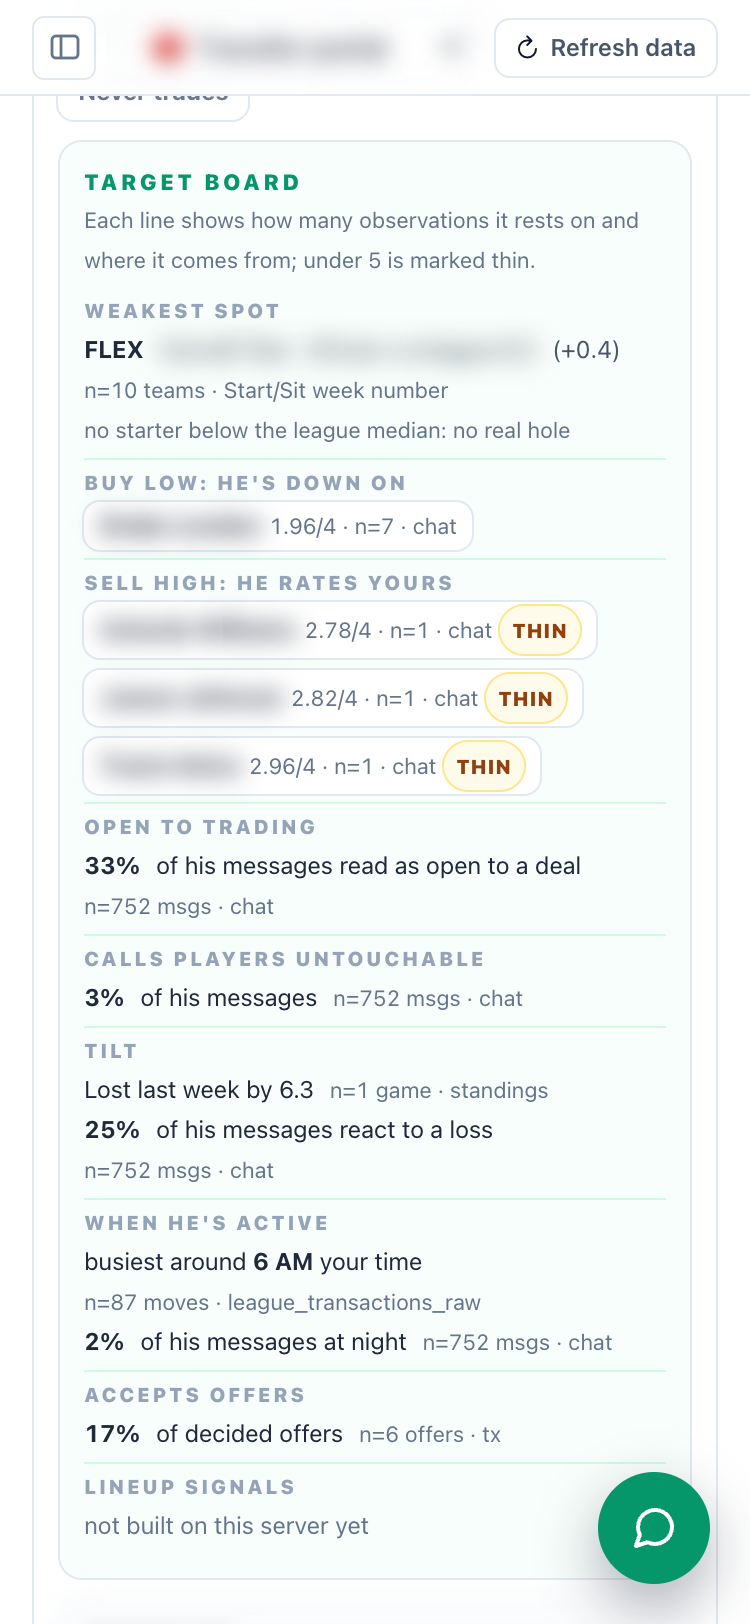
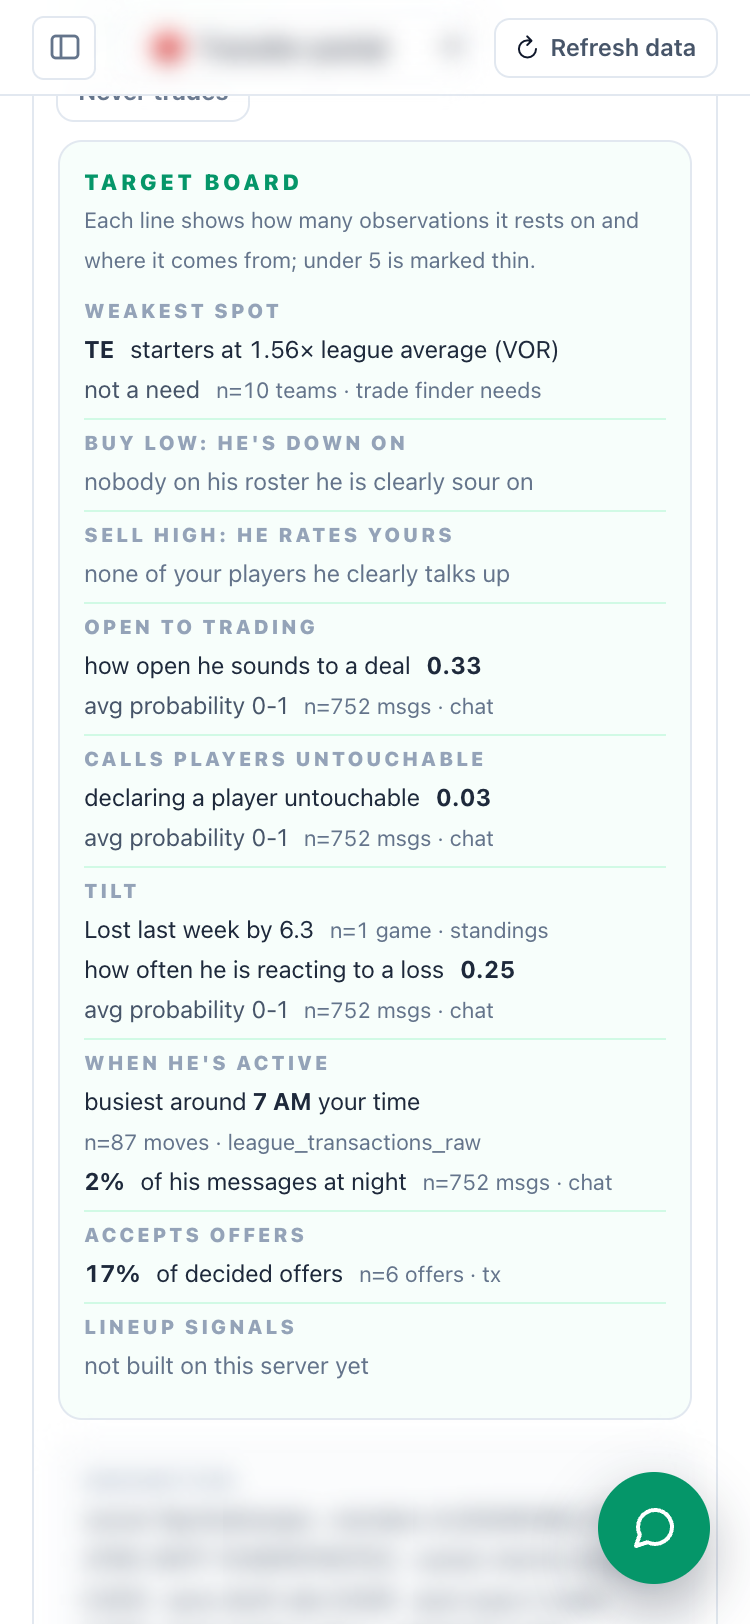
docs: TM-03 round 2 evidence, canonical producers, re-taken 375px screenshots

diff --git a/docs/tdd/2026-09-23-tm-03-target-board.tdd.md b/docs/tdd/2026-09-23-tm-03-target-board.tdd.md
@@ -11,11 +11,11 @@ What already exists for this surface, on `3ac59fea`:
 | Need | Existing producer (table + writer, file:line) | Already served where | Decision |
 |---|---|---|---|
 | Openness, untouchables, loss reaction, night share | `manager_signals` rows `chat_open_to_trade`, `chat_own_untouchable`, `chat_reacting_to_loss`, `chat_night_share` (n = messages), written by `buildManagerSignals` server/services/manager-signals.js:363 via `chatSignals` :149, from league_chat.sqlite `manager_chat_profile` opened by `openChatDb` :111 | `/managers/signals` as a flat signal list (server/routes/trades.js:531) | REUSE the stored rows; shape them per manager |
-| Players he is down on / rates | `manager_player_view` (league, roster, player, sentiment 0-4, n), written by `buildManagerSignals` manager-signals.js:429 from league_chat.sqlite `manager_player_sentiment` through the trusted identity join | read by talk-vs-model.js:187, counterparty-pricing.js:1100, bluff-detector.js:289; not on any page per manager | REUSE; join to rosters with `rosterOwnership` talk-vs-model.js:160 |
+| Players he is down on / rates | `talkReads` server/services/talk-vs-model.js:182 (`readTalk` :77, PRAISE 2.3, SOUR 1.75, 3-mention floor, usage gap from `nfl_ffopportunity_weekly`) over `manager_player_view` (writer `buildManagerSignals` manager-signals.js:429) | the trade finder, counterparty-pricing.js:258 | REUSE the verdicts (round 2; round 1 wrongly re-thresholded the table at 2.0) |
 | Recent loss | `manager_signals` `last_week_margin` (n=1), `standing_streak`, manager-signals.js:243 `standingsSignals` | flat list only | REUSE |
 | Observed accept rate | `manager_signals` `tx_accept_rate` (withheld under 5 decided), manager-signals.js:225 `txSignals` | `/managers/signals` receptiveness block | REUSE, same row |
 | Active hours from behaviour | `timingRead` server/services/trade-tactics.js:249 (league_transactions_raw, min 10 own actions) | trade tactics only | REUSE, call it |
-| Roster hole | none per manager. Canonical week number: `lineupDiff` trade-engine.js:2814 (bestLineup on Start/Sit `week_points`) | League Hub card, Nick's team only | EXTEND: call `lineupDiff` for every roster, compare slot by slot |
+| Roster hole | `analyzeLeague` server/routes/tradelab.js:98 (VOR starter value / league average, need under 0.80), the one needs source of the trade finder (trade-engine.js:155 `rosterContext`, counterparty-pricing.js:456) | the finder's "he is short at X" reason | REUSE its `needs` (round 2; round 1 built a second hole from `lineupDiff` week points and disagreed on 2 rosters) |
 | LS-01 lineup signals | not on main (`grep -rn "LS-01\|lineup_signal" server client/src` on 3ac59fea: 0 hits). Planned table `lineup_signal(s)` (league, roster, player, week, signal, evidence, n) per EXECUTION-WIRING.md | none | CONSUME BEHIND FIELD DETECTION: read only when the table and its columns exist, otherwise `table_absent` |
 
 Why the stored copy and not a second chat read: `manager_player_view` and the `chat_*` rows ARE the chat DB's
@@ -48,6 +48,16 @@ Neighbours on 74e8b373, same command: test/league-brain.test.js 5/5, test/trade-
 test/manager-signals-api.test.js 27/27. `npx tsc --noEmit` exit 0; `node scripts/lint.mjs` exit 0;
 `node scripts/wiring-map.mjs --check` exit 0 (74e8b373 working tree). The full `npm run check` is left to the Gate phase.
 
+### Round 2 (skeptic findings, head eb16c357)
+
+- RED `5cd25dcd` test: RED board reads use talkReads + analyzeLeague, THIN boundary, route isolation. Against
+  eb16c357's service (tests from 5cd25dcd, service file stashed back to eb16c357): pass 9 fail 4 (tests 4, 5, 6,
+  12). Test 13 (route isolation) passes on the old tree because the route was right; its liveness is mutant D.
+- GREEN `ceff05f7` fix: target board reads the trade finder's producers; probability wording; DST-correct
+  hour. Same command: 13/13 pass. Neighbours on ceff05f7: league-brain 5/5, trade-brain-surface 13/13,
+  manager-signals-api 27/27. `npx tsc --noEmit` 0, `node scripts/lint.mjs` 0, `node scripts/wiring-map.mjs --check` 0.
+  `server/routes/trades.js` is unchanged in round 2.
+
 ## 3. What it does
 
 `GET /api/trades/:leagueId/brain/managers` (server/routes/trades.js, the `/brain/managers` handler) now adds
@@ -57,10 +67,10 @@ through client/src/components/brain/TargetBoard.tsx inside each manager row. Per
 
 | Field | Source (reader -> table -> writer) | n | THIN |
 |---|---|---|---|
-| `roster_hole` | `lineupDiff` trade-engine.js:2814 per roster; slot with the lowest (starter week_points - league median starter at that slot) | teams priced | n<5; `below_median:false` renders "no real hole" |
-| `down_on` | `manager_player_view` (writer manager-signals.js:429) where sentiment < 2 and `rosterOwnership` (talk-vs-model.js:160) says the player is on HIS roster | mentions | n<5 |
-| `rates_yours` | same table, sentiment > 2 and the player is on Nick's roster | mentions | n<5 |
-| `openness`, `untouchable`, `tilt.reacting_to_loss`, `active_hours.night_share` | `manager_signals` chat_open_to_trade / chat_own_untouchable / chat_reacting_to_loss / chat_night_share (writer `chatSignals` manager-signals.js:149) | his messages | n<5; `no_corpus` when the roster has no trusted chat identity |
+| `roster_hole` | `analyzeLeague` tradelab.js:98: position with the lowest starter ratio; `is_need`, `gap` (VOR points) and `needs` copied from its `needs` list | teams | n<5; `is_need:false` renders "not a need" |
+| `down_on` | `talkReads` talk-vs-model.js:182 verdicts `buy_low` / `genuine_sour` on a player `rosterOwnership` (talk-vs-model.js:160) puts on HIS roster; buy_low first | mentions | n<5 |
+| `rates_yours` | `talkReads` verdict `wants_him` on a player on Nick's roster | mentions | n<5 |
+| `openness`, `untouchable`, `tilt.reacting_to_loss` (avg classifier probability 0-1 per message, extract_league_chat.py:321-324; shown as "avg probability 0-1" with the coach/people/variables.js:354 labels), `active_hours.night_share` (a real share, :313) | `manager_signals` chat_open_to_trade / chat_own_untouchable / chat_reacting_to_loss / chat_night_share (writer `chatSignals` manager-signals.js:149) | his messages | n<5; `no_corpus` when the roster has no trusted chat identity |
 | `tilt.last_week_margin`, `just_lost`, `streak` | `manager_signals` last_week_margin / standing_streak (`standingsSignals` manager-signals.js:243) | 1 game (a fact, not labelled thin) | `just_lost: null` when no game is decided |
 | `active_hours.busiest_hour_utc` | `timingRead` trade-tactics.js:249 over league_transactions_raw | his own moves | under its own 10-move bar |
 | `accept_rate` | `manager_signals` tx_accept_rate (`txSignals` manager-signals.js:225) | decided offers | `withheld_under_5` with n when under 5 decided |
@@ -86,13 +96,26 @@ while the hand-set tiers still serve.
 | M11 LS-01 detection off | killed (test 8) |
 | M12 NOT-APPLIED CONTROL: pattern absent from the file | reported NOT APPLIED (count 0), not "survived" |
 
+### Round 2 sweep (tree ceff05f7; scratchpad mut3.sh restores the file after each mutant)
+
+| Mutant | Result |
+|---|---|
+| A (skeptic) thin `>=` -> `>` (n=5 wrongly thin) | killed: pass 11 fail 2 (tests 4, 6) |
+| D (skeptic) route `target_board_meta: board ? board.meta : null` (error swallowed) | killed: pass 12 fail 1 (test 13) |
+| E rates_yours takes any verdict, not only `wants_him` | killed: pass 12 fail 1 (test 4, `not_interested` fixture) |
+| F hole picks the HIGHEST ratio | killed: pass 12 fail 1 (test 12) |
+| G buy_low no longer ranked above genuine_sour | killed: pass 12 fail 1 (test 5) |
+| H NOT-APPLIED CONTROL | reported NOT APPLIED |
+
+Round 1 mutants M2, M6, M7 targeted code that no longer exists (neutral 2.0 rule, median-gap hole).
+
 ## 5. The numbers (local copy, not production)
 
 Local copy: `sqlite3 ~/gridiron-local/data.sqlite ".backup '<wt>/.local-db/data.sqlite'"` at 06:28 ET; worktree server
 on :5197 (`SCHEDULER_DISABLED=1`, paid keys blank) at head 5148217f's parent 74e8b373 for the API numbers; counts
 from an in-page `fetch('/api/trades/4/brain/managers')` reduced to aggregates only (no names leave the page).
 
-- Chat league (league 4, the only one with trusted chat identities: `SELECT league_id, COUNT(*) FROM
+- ROUND 1 (tree 74e8b373; the hole, down_on and rates_yours counts in this bullet are SUPERSEDED by round 2 below). Chat league (league 4, the only one with trusted chat identities: `SELECT league_id, COUNT(*) FROM
   league_member_identity WHERE confidence IN (...) GROUP BY 1` -> 4|10): 10 managers, 10 boards; 9 other
   managers; roster hole priced for 9/9 (n=10 teams each), 8 of 9 below the league median; chat corpus 9/9;
   down_on 5 players total (3 thin); rates_yours 7 (6 thin); openness measured 9/9; just_lost 4, unknown 0;
@@ -105,21 +128,40 @@ from an in-page `fetch('/api/trades/4/brain/managers')` reduced to aggregates on
   are different concepts: the second is the league percentile rank (counterparty-pricing.js:315
   `percentile(openVals, ...)`), despite the `_pct` name. No disagreement in the underlying number; the name is a
   follow-up (see known defects).
+- ROUND 2, same local copy, tree ceff05f7, direct `targetBoard(lg)` call on league 4 (scratchpad agree.mjs,
+  secret columns not selected), week 3 (`leagueCurrentWeek`): 10 rosters. Hole vs `analyzeLeague`: `needs` list
+  equal on 10/10; hole = analyzeLeague's top need on 9/9 rosters that have a need. Buy low: 1 player, and
+  `talkReads` gives it `genuine_sour` (1/1 agree). Sell high: 0. Control first (scratchpad ctrl.mjs, same DB,
+  week 3): `talkReads` on league 4 returns attachment 6, wants_him 7, not_interested 5, genuine_sour 1,
+  sales_pitch 4; all 7 wants_him are on OTHER managers' rosters, 0 on Nick's, so 0 sell-high is the canonical
+  answer, not an empty read. Round 1's 5 buy-low / 7 sell-high came from the 2.0 rule the finder does not use.
+  One `targetBoard` call took 194 ms (one sample, a guess, not a benchmark).
+- Busiest hour, round 2: rendered times on the 375px page (Chrome with TZ=America/New_York) are 7 AM, 4 AM,
+  10 AM, 9 AM, 12 PM; `busiest_hour_utc` on league 4 is {1, 8, 11, 13, 14, 16}. UTC 11 and 8 now render 7 AM and
+  4 AM EDT (`TZ=America/New_York node -e` with `setUTCHours` on 2026-09-23 printed `8 4 AM`, `11 7 AM`). Round 1
+  converted on January 1 (EST) and showed 6 AM / 3 AM, one hour early all autumn.
 - Known-nonzero before any empty read: league 4 above is the nonzero case. The `no_corpus` path is shown only
   in the fixture (test 5, roster with a `likely` match); it was not checked on a real no-chat league.
 
-Screenshots at 375 px, every manager, league and player name blurred before capture (headless Chrome over CDP,
-`document.documentElement.scrollWidth - innerWidth` = 0, no horizontal scroll):
-docs/tdd/img/tm-03-board-375-1.png, -2.png, -3.png.
+Screenshots at 375 px, re-taken on ceff05f7 (round 2), every manager, league and player name blurred before
+capture (headless Chrome over CDP, `document.documentElement.scrollWidth - innerWidth` = 0, no horizontal
+scroll; 9 boards, 9 with "avg probability 0-1", 0 with "% of his messages read as open"):
+docs/tdd/img/tm-03-board-375-1.png, -2.png, -3.png. Checked by eye: no readable name.
 
 ## 6. Known defects and limits
 
-- The hole is a hand-set rule (furthest below the league median starter at that slot). It is not graded against
-  any trade outcome; it is a description, not a recommendation, and nothing prices on it.
-- "Down on"/"rates yours" use a strict neutral of 2.0 on the 0-4 chat score with no margin; a 1.96 mean counts
-  as down on (shown to two decimals so the reader sees it). M2 is the standing survivor for the boundary.
-- Busiest hour is `timingRead`'s, shown in the viewer's local time. On league 4 two managers show 3 AM and 6 AM;
-  whether those are his own taps or ESPN-timestamped queued moves was not checked (not verified).
+- The hole is analyzeLeague's season-projection VOR read, not this week's lineup. A roster whose weakest
+  position is still above 0.80 of league average shows the position with "not a need".
+- Buy low / sell high inherit readTalk's hand-set thresholds (PRAISE 2.3, SOUR 1.75, 3 mentions); they are
+  the finder's rules, not new ones. Before week 3 there are under 2 usage games, so `buy_low` cannot fire and
+  sour reads show as `genuine_sour`.
+- Busiest hour is `timingRead`'s, shown in the viewer's local time on today's date. On league 4 two managers
+  show 4 AM and 7 AM ET (UTC 8 and 11); whether those are his own taps or ESPN-timestamped queued moves was
+  not checked (not verified).
+- Same misphrase outside this unit: counterparty-pricing.js:448 says "reacts to losses in N% of his messages"
+  for the same avg-probability number, and ManagerBoard's measured panel shows raw `chat_open_to_trade` beside
+  Receptiveness `open_to_trade_pct` (a league rank). Both are counterparty-pricing / ManagerBoard follow-ups,
+  named for the PR.
 - Falling playoff odds (named in the queue row's "tilt") is not in this unit: tilt is last result + streak +
   chat loss-reaction only. Follow-up once B-01 odds are per-manager.
 - `open_to_trade_pct` in `/managers/signals` is a rank named like a share; renaming it is outside this unit
@@ -129,16 +171,17 @@ docs/tdd/img/tm-03-board-375-1.png, -2.png, -3.png.
 
 ## 7. Nick's five questions
 
-1. Well built? One new service that only reads existing producers, one route extension, one component. 11
-   payload tests from a fixture chat DB through the real signal build; 10 of 11 mutants die, M2 is the designed
-   survivor, M12 the not-applied control. Parameterised SQL; the LS-01 table name comes from a fixed list.
+1. Well built? One new service that only reads existing producers, one route extension, one component. 13
+   tests from a fixture chat DB through the real signal build and a real analyzeLeague fixture; round 2 sweep
+   kills 5/5 applied mutants (incl. the skeptics' A and D), H is the not-applied control. Parameterised SQL; the LS-01 table name comes from a fixed list.
 2. Stats or made up? Stats already stored (chat shares, sentiment means, accept rate, margins, lineup points).
-   The thresholds (THIN under 5, neutral 2.0, median-gap hole) are hand-set and labelled as such in the payload
-   (`target_board_meta.rules`).
+   The only threshold of its own is THIN under 5 (hand-set, in `target_board_meta.rules`); buy low / sell high
+   and needs use the trade finder's existing rules.
 3. How we know: nothing is backtested here, because nothing new is predicted. The board shows reads with their
    n; it makes no start/sit, waiver or trade call of its own, so there is no decision win rate to grade.
 4. Pointed anywhere else? Yes: `/brain/managers` feeds the Trade Brain page (client/src/pages/TradeBrain.tsx
    `useApi(.../brain/managers)`) -> ManagerBoard -> TargetBoard. TM-04 (pitch) is the next consumer.
 5. How it unifies: no second producer. Chat reads come from the one signal build after the trusted identity
-   join; the hole comes from `lineupDiff`, the same week number Start/Sit and League Hub use; accept rate is the
+   join; buy low / sell high are `talkReads` verdicts and the hole is `analyzeLeague` needs, the same calls the
+   trade finder makes (checked equal on league 4: needs 10/10, top need 9/9, buy-low 1/1); accept rate is the
    same row the counterparty layer prices with (checked equal on 9/9 managers).
